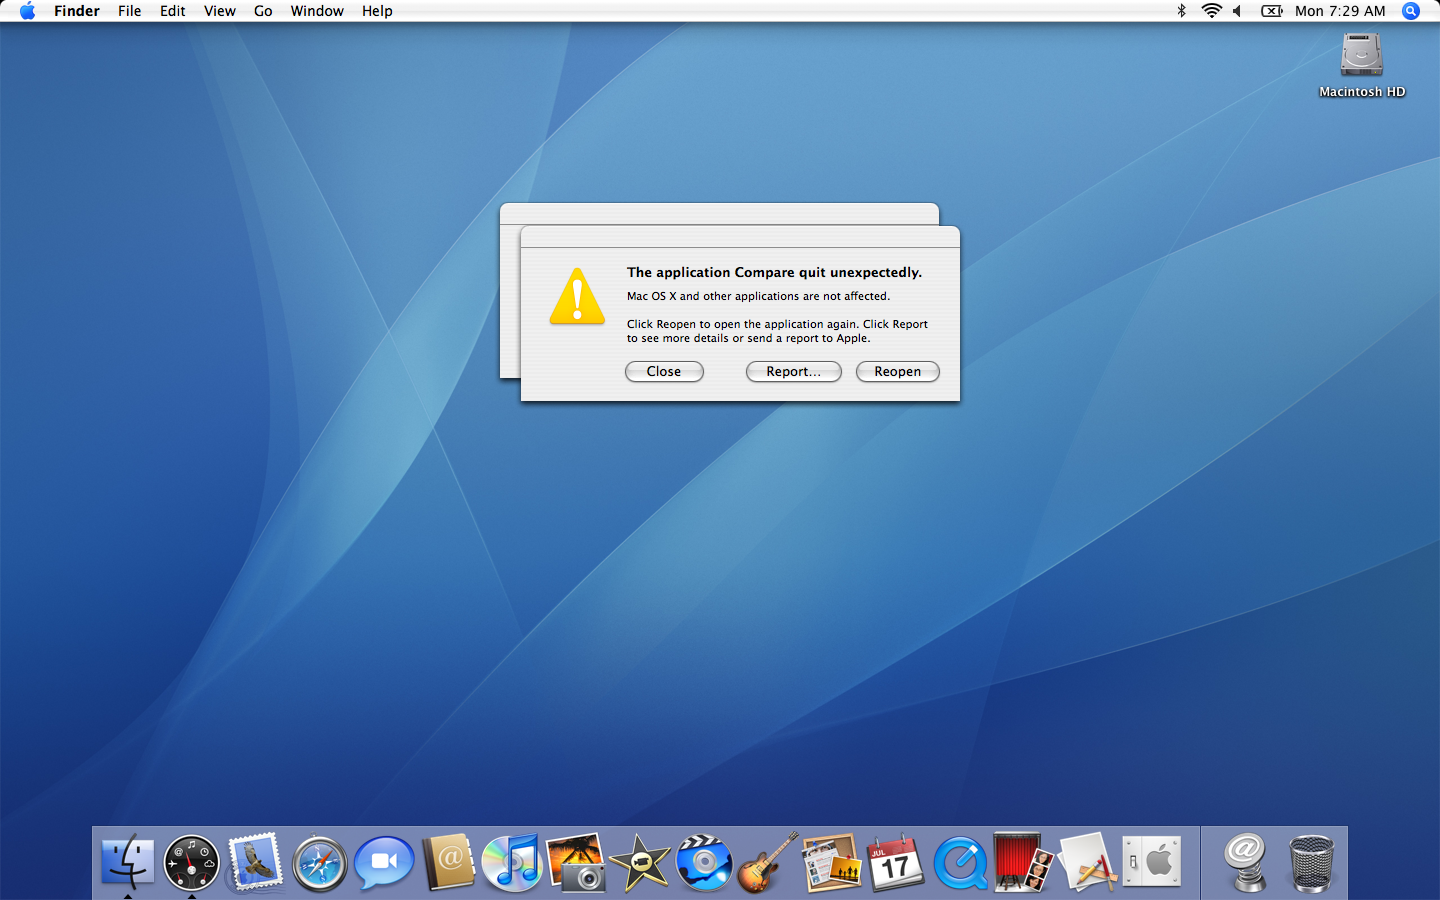
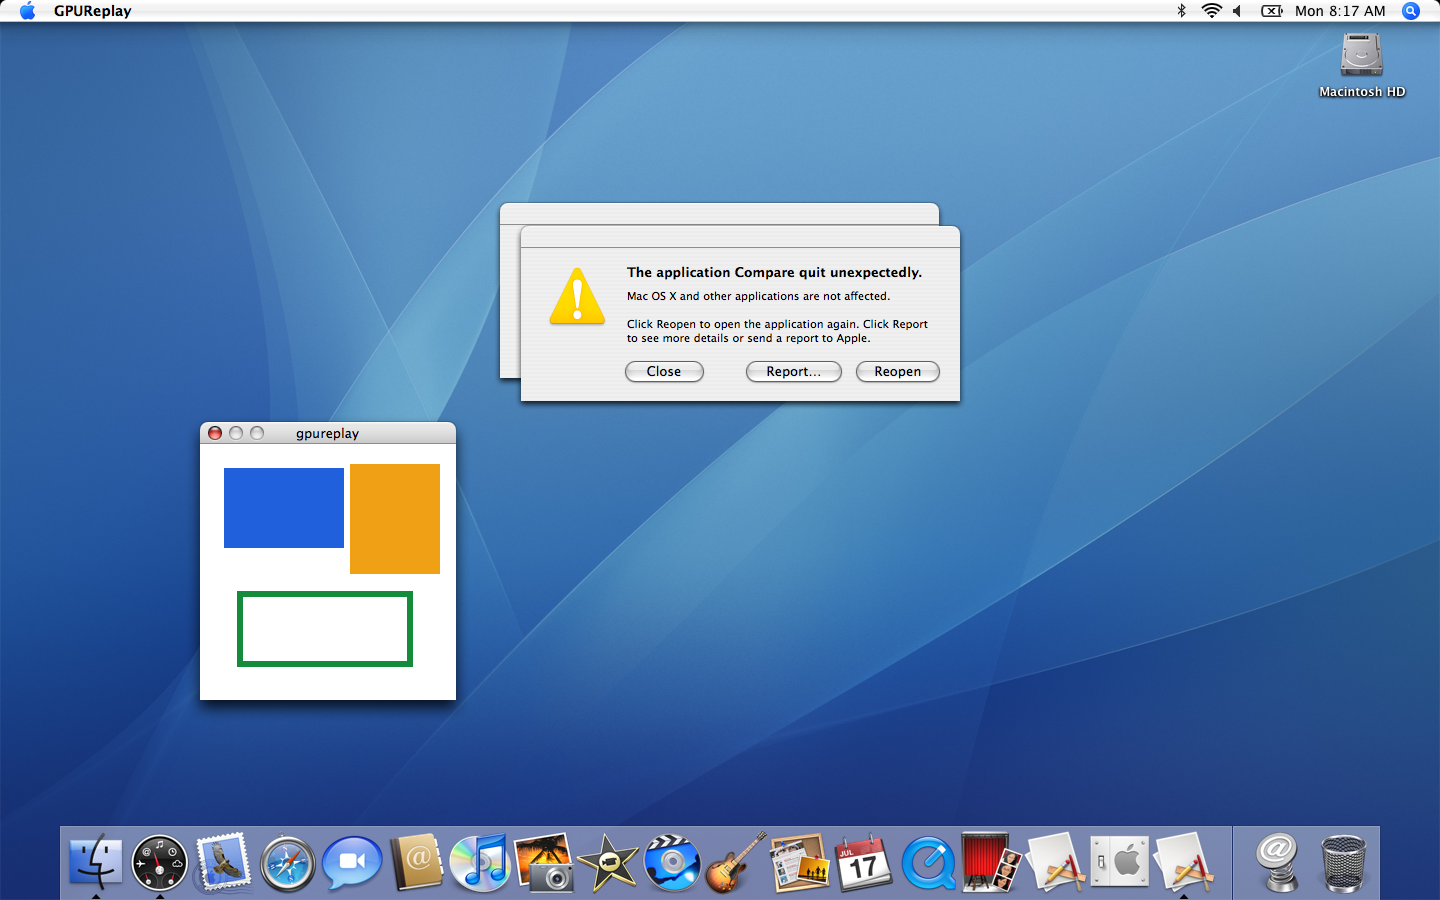
spike/gpureplay: the tile is on screen -- the window was three CAHost lines away
The replayed tile is composited onto a real CALayer through tigerca::Scene and
a CARenderer in an NSOpenGLView, on the box, and the screenshot shows it: white
background, blue fill, orange clipped fill, green stroke, exactly the display
list. spike/gpureplay/gpureplay.png.

It was never a Tiger limitation, and my earlier "makeKeyAndOrderFront blocks"
was wrong -- the process was crashing, not hanging, and `ps | grep` had been
matching the ssh wrapper rather than the app. What it actually was, found by
sampling and then by gdb:

  **-[NSOpenGLContext makeCurrentContext] recurses on Tiger.** It goes back
  through the view, which calls -openGLContext, which calls -prepareOpenGL,
  which called makeCurrentContext again. The recursion eats the main thread's
  whole 8 MB stack and dies in CGLSetCurrentContext with esp exactly at
  0xbf800000, the stack's bottom page -- an EXC_BAD_ACCESS that looks nothing
  like a stack overflow until you notice the address. spike/CAHost never uses
  makeCurrentContext anywhere: CGLSetCurrentContext on
  [[self openGLContext] CGLContextObj] is the recipe, in prepareOpenGL, in
  reshape and in the frame.

Two more lines from the same recipe, each of which on its own leaves a window
that is up and empty: -[CALayer setGeometryFlipped:YES] on the root (the layer
tree is y-up), and [self reshape] at the end of prepareOpenGL, because the
CARenderer has no bounds until then and the first frame otherwise renders into
[…]

Changed region(s): [[0.0312, 0.9022, 0.9688, 1.0], [0.125, 0.4667, 0.3438, 0.8089], [0.0312, 0.0, 0.2812, 0.0311]]

diff --git a/spike/gpureplay/GPUReplay.mm b/spike/gpureplay/GPUReplay.mm
@@ -189,10 +189,16 @@ static Compare comparePixels(const uint8_t* a, const uint8_t* b, size_t rowBytes
 - (BOOL)isOpaque { return YES; }
 - (void)setTileStore:(tigerca::TileStore)store { _store = store; }
 
+// NEVER -[NSOpenGLContext makeCurrentContext] here. On Tiger that path goes
+// back through the view, which calls -openGLContext, which calls
+// -prepareOpenGL: the recursion eats the main thread's whole 8 MB stack and
+// dies in CGLSetCurrentContext with esp exactly at the stack's bottom page.
+// spike/CAHost never uses makeCurrentContext for the same reason; CGL directly
+// is the recipe.
 - (void)prepareOpenGL
 {
     [super prepareOpenGL];
-    [[self openGLContext] makeCurrentContext];
+    CGLSetCurrentContext((CGLContextObj)[[self openGLContext] CGLContextObj]);
 
     _renderer = [[CARenderer rendererWithCGLContext:(CGLContextObj)[[self openGLContext] CGLContextObj]
                                             options:nil] retain];
@@ -235,14 +241,20 @@ static Compare comparePixels(const uint8_t* a, const uint8_t* b, size_t rowBytes
     update.changedLayers.push_back(layer);
 
     CALayer* root = _scene->apply(update);
+    // The rest of the CAHost recipe: the layer tree is y-up, and the renderer
+    // has no bounds until -reshape runs -- without that call the first
+    // -drawRect: renders into a zero rect and the window stays the clear
+    // colour, which looks exactly like a scene that was never built.
+    [root setGeometryFlipped:YES];
     [_renderer setLayer:root];
+    [self reshape];
     _built = YES;
 }
 
 - (void)reshape
 {
     NSRect b = [self bounds];
-    [[self openGLContext] makeCurrentContext];
+    CGLSetCurrentContext((CGLContextObj)[[self openGLContext] CGLContextObj]);
     glViewport(0, 0, (GLsizei)b.size.width, (GLsizei)b.size.height);
     glMatrixMode(GL_PROJECTION);
     glLoadIdentity();
@@ -256,11 +268,13 @@ static Compare comparePixels(const uint8_t* a, const uint8_t* b, size_t rowBytes
 {
     if (!_built)
         return;
-    [[self openGLContext] makeCurrentContext];
+    NSRect b = [self bounds];
+    CGLSetCurrentContext((CGLContextObj)[[self openGLContext] CGLContextObj]);
+    [CATransaction flush];
     glClearColor(0.2f, 0.2f, 0.2f, 1);
     glClear(GL_COLOR_BUFFER_BIT);
     [_renderer beginFrameAtTime:CACurrentMediaTime() timeStamp:NULL];
-    [_renderer addUpdateRect:[_renderer bounds]];
+    [_renderer addUpdateRect:CGRectMake(0, 0, b.size.width, b.size.height)];
     [_renderer render];
     [_renderer endFrame];
     [[self openGLContext] flushBuffer];
@@ -278,12 +292,7 @@ static Compare comparePixels(const uint8_t* a, const uint8_t* b, size_t rowBytes
 
 int main(int argc, const char** argv)
 {
-    // -show, or the marker file. Tiger's `open` cannot pass arguments to an
-    // application (--args is 10.6), and a window this process opens after being
-    // launched over ssh never comes up -- makeKeyAndOrderFront just blocks --
-    // so the on-screen half has to go through `open`, which runs it in the
-    // console session. The marker is how that run asks for the window.
-    bool show = access("/tmp/gpureplay-show", F_OK) == 0;
+    bool show = false;
     for (int i = 1; i < argc; ++i) {
         if (!strcmp(argv[i], "-show"))
             show = true;
@@ -385,7 +394,17 @@ int main(int argc, const char** argv)
     // No -setActivationPolicy:, which is 10.6. The bundle's Info.plist is what
     // makes this a foreground application on 10.4.
     NSAutoreleasePool* pool = [[NSAutoreleasePool alloc] init];
-    [NSApplication sharedApplication];
+    NSApplication* app = [NSApplication sharedApplication];
+    // The rest of the CAHost recipe: a menu bar, orderFrontRegardless and
+    // activateIgnoringOtherApps, so the window comes up in front of whatever
+    // the console session is showing.
+    NSMenu* menubar = [[[NSMenu alloc] init] autorelease];
+    NSMenuItem* appItem = [[[NSMenuItem alloc] init] autorelease];
+    [menubar addItem:appItem];
+    NSMenu* appMenu = [[[NSMenu alloc] init] autorelease];
+    [appMenu addItemWithTitle:@"Quit" action:@selector(terminate:) keyEquivalent:@"q"];
+    [appItem setSubmenu:appMenu];
+    [app setMainMenu:menubar];
     NSRect frame = NSMakeRect(200, 200, kTile, kTile);
     NSWindow* window = [[NSWindow alloc] initWithContentRect:frame
                                                    styleMask:NSTitledWindowMask | NSClosableWindowMask
@@ -398,10 +417,12 @@ int main(int argc, const char** argv)
     [view setTileStore:store];
     [window setContentView:view];
     [window makeKeyAndOrderFront:nil];
+    [window orderFrontRegardless];
+    [app activateIgnoringOtherApps:YES];
     printf("  window visible %d, screens %d\n", (int)[window isVisible], (int)[[NSScreen screens] count]);
     fflush(stdout);
-    [NSApp setDelegate:[[GPUReplayDelegate alloc] init]];
-    [NSApp run];
+    [app setDelegate:[[GPUReplayDelegate alloc] init]];
+    [app run];
 
     [pool release];
     free(referenceBits);
